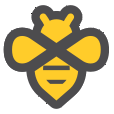
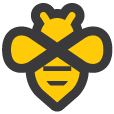
gradients on ALL THE THINGS

diff --git a/Beeminder/GoalsTableViewController.m b/Beeminder/GoalsTableViewController.m
@@ -27,6 +27,7 @@
 - (void)viewDidLoad
 {    
     [super viewDidLoad];
+    [self.tableView setSectionFooterHeight:[self.tableView cellForRowAtIndexPath:[[NSIndexPath alloc] initWithIndex:0]].frame.size.height];
     
     User *user = [ABCurrentUser user];
 
@@ -36,6 +37,7 @@
     self.goalObjects = [NSMutableArray arrayWithArray:arrayOfGoalObjects];
     self.refreshButton = [[UIBarButtonItem alloc] initWithBarButtonSystemItem:UIBarButtonSystemItemRefresh target:self action:@selector(fetchEverything)];
     self.navigationItem.rightBarButtonItem = self.refreshButton;
+    
 }
 
 - (void)viewDidAppear:(BOOL)animated
@@ -102,7 +104,7 @@
 
 - (NSInteger)tableView:(UITableView *)tableView numberOfRowsInSection:(NSInteger)section
 {
-    return [self.goalObjects count];
+    return [self.goalObjects count] + 1;
 }
 
 - (UITableViewCell *)tableView:(UITableView *)tableView cellForRowAtIndexPath:(NSIndexPath *)indexPath
@@ -111,14 +113,19 @@
 
     UITableViewCell *cell = [tableView dequeueReusableCellWithIdentifier:CellIdentifier];
 
-    Goal *goalObject = [self.goalObjects objectAtIndex:indexPath.row];
-    cell.textLabel.text = goalObject.title;
-    if (self.goalObjects.count > 0) {
-        Goal *goal = [self.goalObjects objectAtIndex:indexPath.row];
-        cell.detailTextLabel.text = [goal countdownTextBrief:YES];
-        cell.detailTextLabel.textColor = goal.countdownColor;
+    if (indexPath.row >= self.goalObjects.count) {
+        cell.textLabel.text = @"Add New Goal";
+        cell.detailTextLabel.text = @"";
     }
-
+    else {
+        Goal *goalObject = [self.goalObjects objectAtIndex:indexPath.row];
+        cell.textLabel.text = goalObject.title;
+        if (self.goalObjects.count > 0) {
+            Goal *goal = [self.goalObjects objectAtIndex:indexPath.row];
+            cell.detailTextLabel.text = [goal countdownTextBrief:YES];
+            cell.detailTextLabel.textColor = goal.countdownColor;
+        }
+    }
     return cell;
 }
 
@@ -126,13 +133,12 @@
 
 - (void)tableView:(UITableView *)tableView didSelectRowAtIndexPath:(NSIndexPath *)indexPath
 {
-    // Navigation logic may go here. Create and push another view controller.
-    /*
-     <#DetailViewController#> *detailViewController = [[<#DetailViewController#> alloc] initWithNibName:@"<#Nib name#>" bundle:nil];
-     // ...
-     // Pass the selected object to the new view controller.
-     [self.navigationController pushViewController:detailViewController animated:YES];
-     */
+    if (indexPath.row >= self.goalObjects.count) {
+        [self performSegueWithIdentifier:@"segueToAddGoal" sender:self];
+    }
+    else {
+        [self performSegueWithIdentifier:@"segueToGoalSummaryView" sender:self];
+    }
 }
 
 - (void)prepareForSegue:(UIStoryboardSegue *)segue sender:(id)sender
@@ -181,16 +187,10 @@
     for (Goal *goal in self.goalObjects) {
         NSDate *emergencyTime;
         NSDate *wrongLaneTime;
-        if ([goal.slug isEqualToString:@"weightstable"]) {
-            emergencyTime = [[NSDate date]
-                         dateByAddingTimeInterval:20];
-            wrongLaneTime = [[NSDate date] dateByAddingTimeInterval:10];
-        }
-        else {
-            double countdown = [goal.countdown doubleValue];
-            emergencyTime = [NSDate dateWithTimeIntervalSince1970:countdown - 24*3600];
-            wrongLaneTime = [NSDate dateWithTimeIntervalSince1970:countdown - 48*3600];
-        }
+        double countdown = [goal.countdown doubleValue];
+        emergencyTime = [NSDate dateWithTimeIntervalSince1970:countdown - 24*3600];
+        wrongLaneTime = [NSDate dateWithTimeIntervalSince1970:countdown - 48*3600];
+
         UIApplication* app = [UIApplication sharedApplication];
         UILocalNotification* notifyAlarm = [[UILocalNotification alloc] init];
         if (notifyAlarm)

diff --git a/Beeminder/GradientViews.m b/Beeminder/GradientViews.m
@@ -33,18 +33,18 @@
         CGFloat red = components[0];
         CGFloat green = components[1];
         CGFloat blue = components[2];
-        CGFloat alpha = components[3];
+//        CGFloat alpha = components[3];
         shineLayer.colors = [NSArray arrayWithObjects:
-                             (id)[UIColor colorWithRed:red green:green blue:blue alpha:alpha + 0.4].CGColor,
-                             (id)[UIColor colorWithRed:red green:green blue:blue alpha:alpha - 0.4].CGColor,
+                             (id)[UIColor colorWithRed:red green:green blue:blue alpha:1.0].CGColor,
+                             (id)[UIColor colorWithRed:red green:green blue:blue alpha:0.6].CGColor,
                              nil];
     }
     else if(numComponents == 2) {
         CGFloat white = components[0];
-        CGFloat alpha = components[1];
+//        CGFloat alpha = components[1];
         shineLayer.colors = [NSArray arrayWithObjects:
-                             (id)[UIColor colorWithWhite:white alpha:alpha + 0.4].CGColor,
-                             (id)[UIColor colorWithWhite:white alpha:alpha - 0.4].CGColor,
+                             (id)[UIColor colorWithWhite:white alpha:1.0].CGColor,
+                             (id)[UIColor colorWithWhite:white alpha:0.6].CGColor,
                              nil];
     }
     
@@ -58,6 +58,22 @@
     }
     
     if ([view isKindOfClass:[UIButton class]]) {
+
+        
+        UIGraphicsBeginImageContext(CGSizeMake(view.frame.size.width, view.frame.size.height));
+        CGContextRef context = UIGraphicsGetCurrentContext();
+        UIGraphicsPushContext(context);
+        
+        CGContextSetFillColorWithColor(context, color.CGColor);
+        /* Fill the Core Graphics Image with the color defined above given 'progress' the percent value as float between 0  and 1. */
+        CGContextFillRect(context, CGRectMake(0, 0, view.frame.size.width, view.frame.size.height));
+        UIGraphicsPopContext();
+        UIImage *outputImage = UIGraphicsGetImageFromCurrentImageContext();
+        UIGraphicsEndImageContext();
+        
+        [(UIButton *)view setBackgroundImage:outputImage forState:UIControlStateHighlighted];
+        
+        
         [layer insertSublayer:shineLayer atIndex:2];
     }
     else {

diff --git a/Beeminder/SignInViewController.m b/Beeminder/SignInViewController.m
@@ -18,6 +18,7 @@
 
 @synthesize email = _email;
 @synthesize password = _password;
+@synthesize signInButton = _signInButton;
 
 - (id)initWithNibName:(NSString *)nibNameOrNil bundle:(NSBundle *)nibBundleOrNil
 {
@@ -34,15 +35,17 @@
     if ([ABCurrentUser authenticationToken]) {
         [self performSegueWithIdentifier:@"segueFromSigninToDashboard" sender:self];
     }
-	// Do any additional setup after loading the view.
+    [GradientViews addGradient:self.view withColor:[UIColor colorWithRed:1.0 green:203.0/255.0f blue:8.0f/255.0 alpha:1.0] startAtTop:YES cornerRadius:0.0f borderColor:nil];
+    
+    [GradientViews addGradient:self.signInButton withColor:[UIColor grayColor] startAtTop:NO cornerRadius:8.0 borderColor:[UIColor grayColor]];
 }
 
 - (void)viewDidUnload
 {
     [self setEmail:nil];
     [self setPassword:nil];
+    [self setSignInButton:nil];
     [super viewDidUnload];
-    // Release any retained subviews of the main view.
 }
 
 - (BOOL)shouldAutorotateToInterfaceOrientation:(UIInterfaceOrientation)interfaceOrientation

diff --git a/Beeminder/SplashViewController.m b/Beeminder/SplashViewController.m
@@ -16,6 +16,7 @@
 
 @implementation SplashViewController
 @synthesize startTrackingButton;
+@synthesize signInButton;
 
 - (id)initWithNibName:(NSString *)nibNameOrNil bundle:(NSBundle *)nibBundleOrNil
 {
@@ -38,6 +39,8 @@
     [GradientViews addGradient:self.view withColor:[UIColor colorWithRed:1.0 green:203.0/255.0f blue:8.0f/255.0 alpha:1.0] startAtTop:YES cornerRadius:0.0f borderColor:nil];
     
     [GradientViews addGradient:self.startTrackingButton withColor:[UIColor grayColor] startAtTop:NO cornerRadius:8.0 borderColor:[UIColor grayColor]];
+    
+    [GradientViews addGradient:self.signInButton withColor:[UIColor grayColor] startAtTop:NO cornerRadius:8.0f borderColor:nil];    
 }
 
 - (void)viewDidAppear:(BOOL)animated
@@ -62,6 +65,7 @@
 - (void)viewDidUnload
 {
     [self setStartTrackingButton:nil];
+    [self setSignInButton:nil];
     [super viewDidUnload];
     // Release any retained subviews of the main view.
 }

diff --git a/Beeminder/SignInViewController.h b/Beeminder/SignInViewController.h
@@ -12,5 +12,6 @@
 @interface SignInViewController : UIViewController
 @property (strong, nonatomic) IBOutlet UITextField *email;
 @property (strong, nonatomic) IBOutlet UITextField *password;
+@property (strong, nonatomic) IBOutlet UIButton *signInButton;
 
 @end

diff --git a/Beeminder/SplashViewController.h b/Beeminder/SplashViewController.h
@@ -10,5 +10,6 @@
 
 @interface SplashViewController : UIViewController
 @property (strong, nonatomic) IBOutlet UIButton *startTrackingButton;
+@property (strong, nonatomic) IBOutlet UIButton *signInButton;
 
 @end
